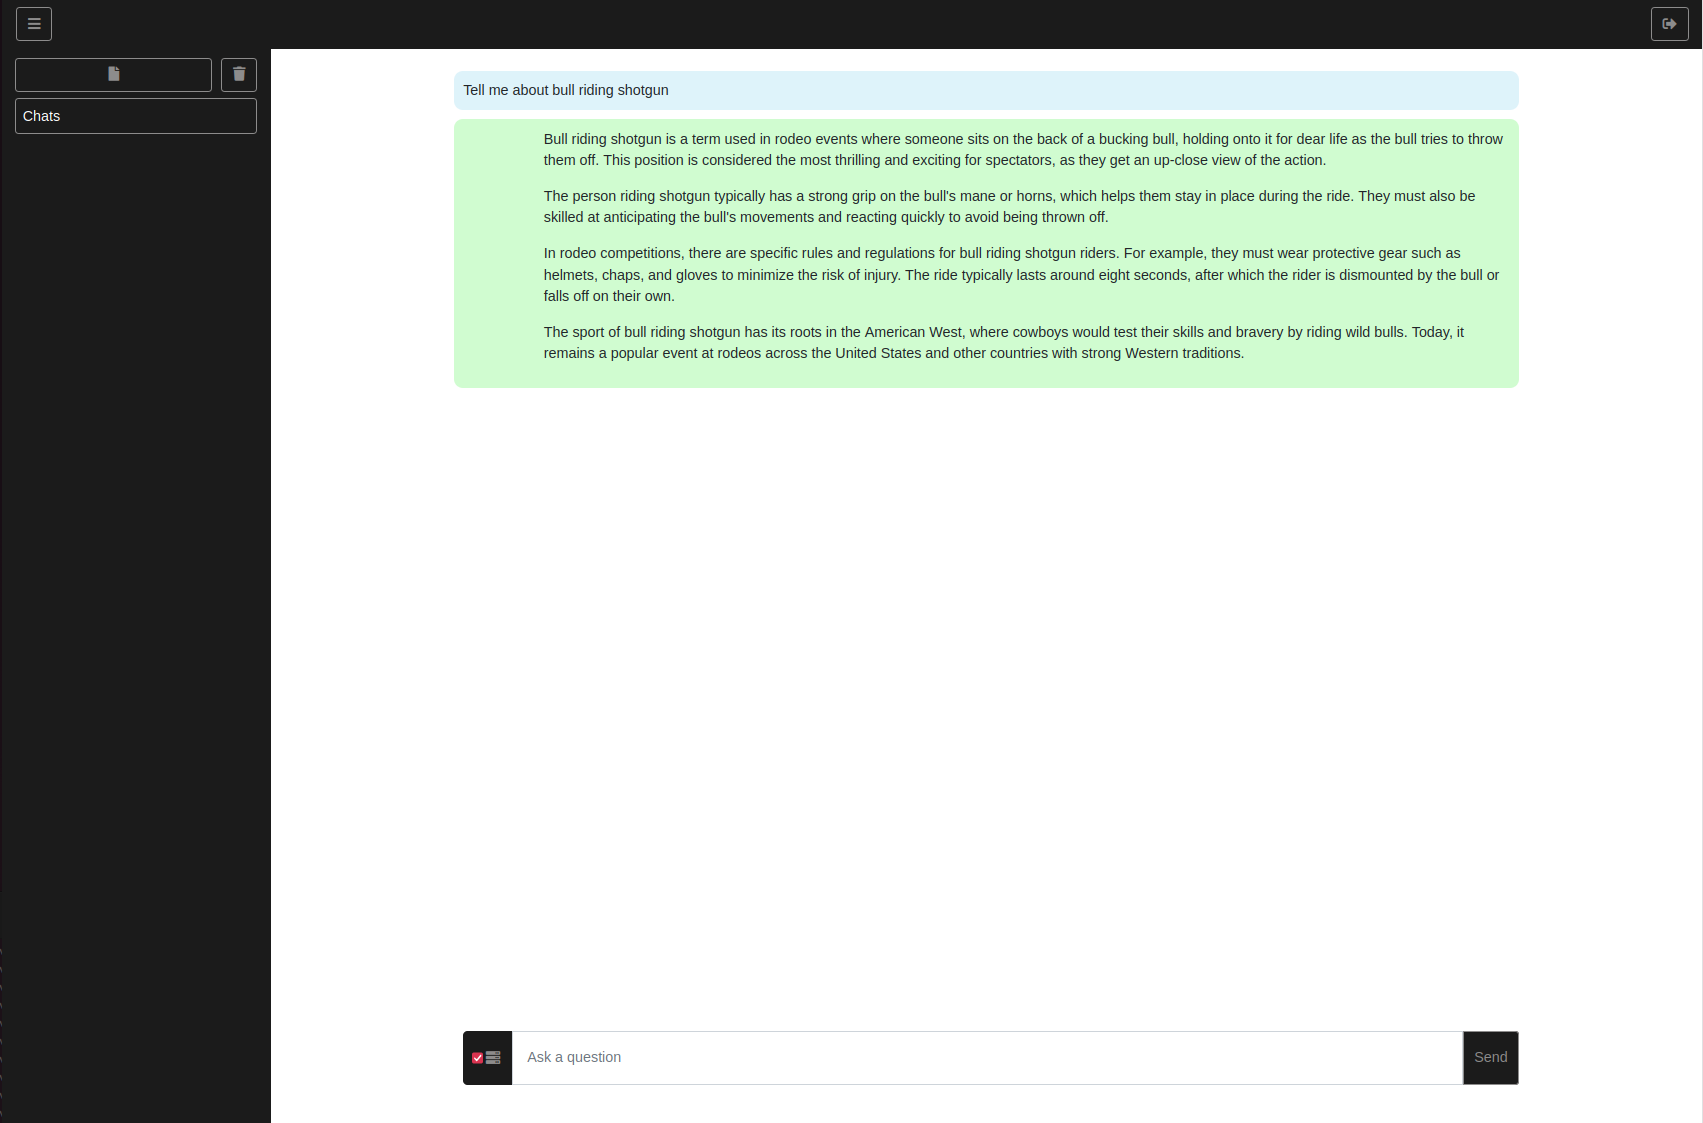
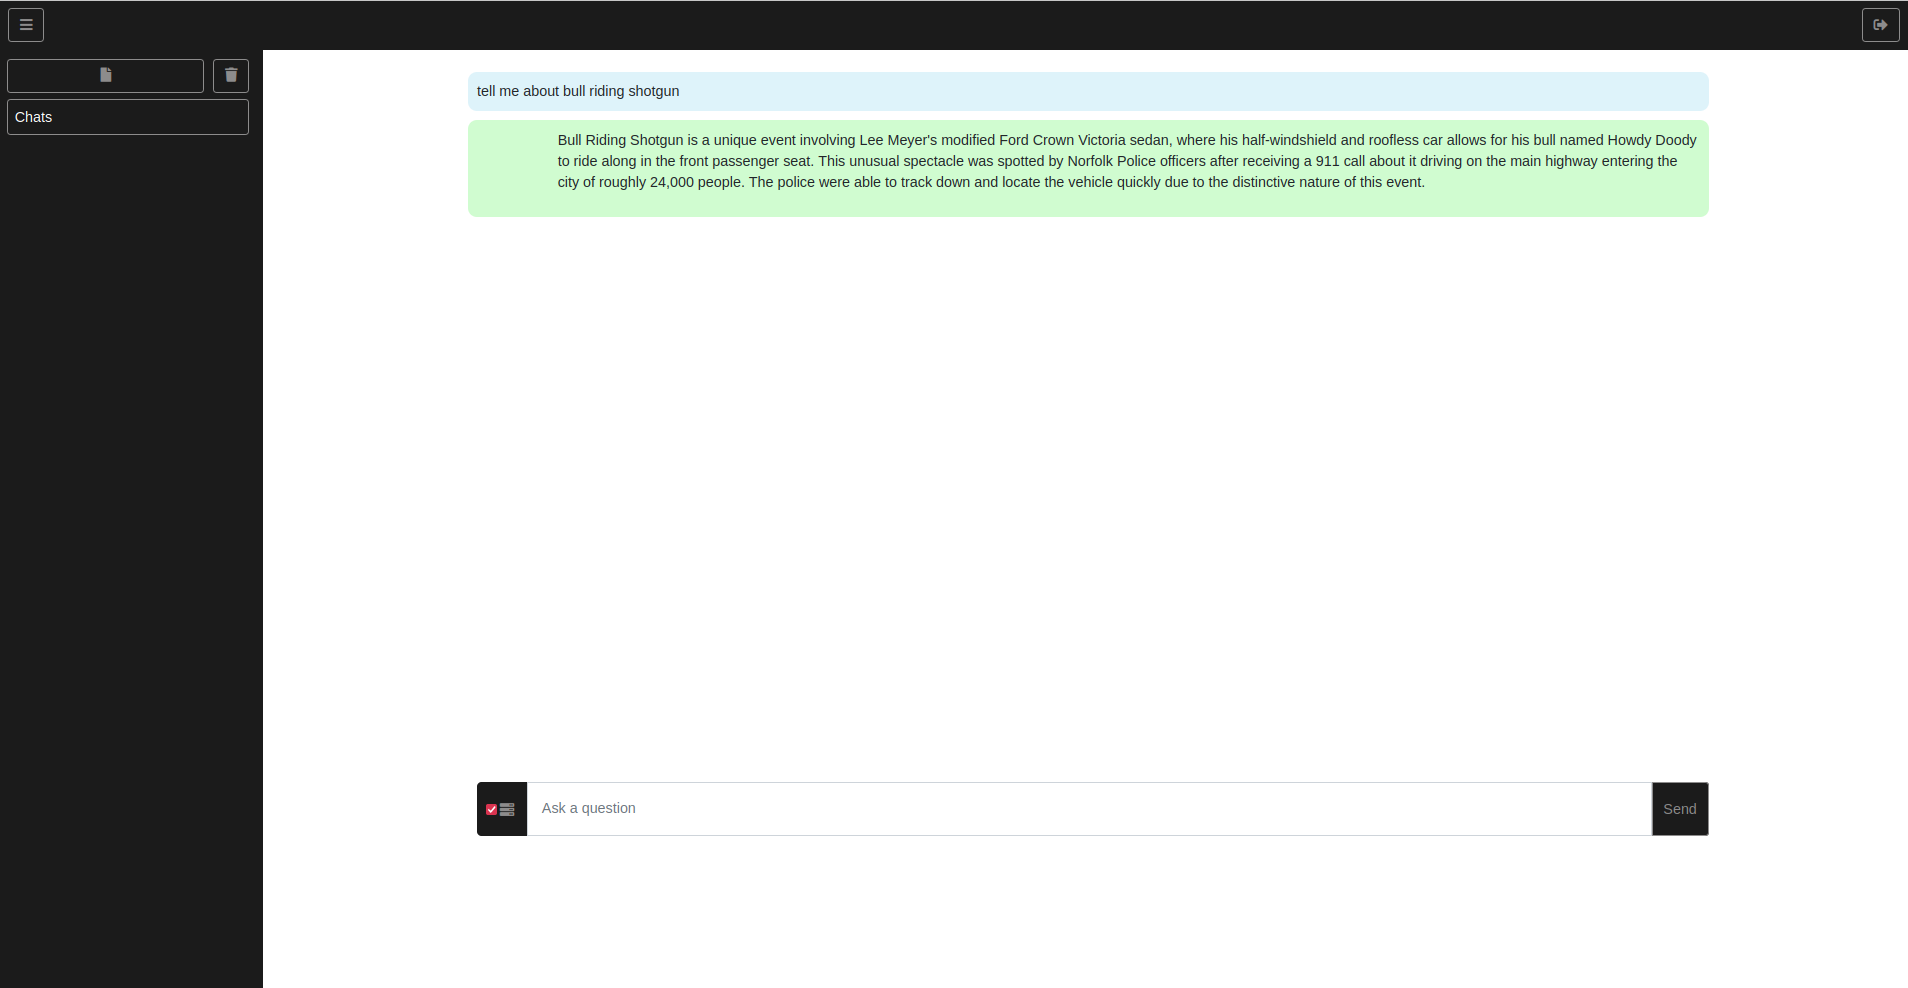
Add files via upload

diff --git a/server.js b/server.js
@@ -13,20 +13,21 @@ const socketIO = require("socket.io");
 var cors = require("cors");
 const path = require("path");
 const vdb = require("./db.js");
+const fs = require('fs');
 
-const version = 0.12;
+const version = 0.15;
 var session = require("express-session");
+// const { parseOutput } = require('langchain/output_parser');
 const config = require("./config.js");
 if (config.login) {
   var hash = require("./hash.js");
 }
-function Ser() {}
+function ser() {}
 
-Ser.init = function (error) {
+ser.init = function (error) {
   // console.time("processing");
   this.connectedClients = new Map();
   this.socketId = null;
-  this.TIMEOUT_INTERVAL = 20000;
   this.messageQueue = []; // Queue to store messages from clients
   this.isProcessing = false; // Flag to track if a message is being proce
   this.llamachild = spawn(config.llamacpp, config.params, {
@@ -34,12 +35,14 @@ Ser.init = function (error) {
   });
   console.log(config.llamacpp + " " + config.params.join(" "));
   this.buffer = "";
-
-  // this.piperspeak();
-  // this.aplayf();
-  // this.piper.stdout.pipe(this.aplay.stdin);
-
-  this.fullmessage = "";
+  if(config.piper.enabled){
+    this.fullmessage = "";
+    this.piperChild();
+    this.aplayChild();
+    this.FileStream();
+    this.piper.stdout.pipe(this.aplay.stdin);
+    // this.piper.stdout.pipe(this.wavFileStream);
+  }
 
   this.llamachild.stdout.on("data", (msg) => this.handleLlama(msg));
 
@@ -75,7 +78,7 @@ Ser.init = function (error) {
   // Serve static files from the 'public' folder
   this.app.use(express.static(path.join(__dirname, "public")));
   // Define a route to render the EJS view
-  this.app.get("/", Ser.loggedIn, (req, res, next) => {
+  this.app.get("/", ser.loggedIn, (req, res, next) => {
     res.render("index", {
       title: "Chat UI",
       version: version,
@@ -87,7 +90,7 @@ Ser.init = function (error) {
 
   this.app.post("/stopper", async (request, response) => {
     console.log("STOPPING");
-    this.llamachild.kill("SIGINT");
+    ser.llamachild.kill("SIGINT");
     response.send({ message: "stopped" });
   });
 
@@ -147,7 +150,7 @@ Ser.init = function (error) {
   this.start();
 };
 
-Ser.loggedIn = function (req, res, next) {
+ser.loggedIn = function (req, res, next) {
   if (!config.login) {
     req.session.loggedin = true;
   }
@@ -158,31 +161,45 @@ Ser.loggedIn = function (req, res, next) {
   }
 };
 
-Ser.handleLlamaError = function (error) {
+ser.handleLlamaError = function (error) {
   console.error("An error occurred in the llama child process:", error);
   // Handle the error appropriately, e.g., logging, cleanup, etc.
 };
 
-// Ser.aplayf = function(){
-//   Ser.aplay = spawn('aplay', [
-//     '-r', '22050',
-//     '-f', 'S16_LE',
-//     '-t', 'raw', '-'
-//   ]);
-// }
+ser.aplayChild = function(){
+  this.aplay = spawn('aplay', [
+    '-r', '24050',
+    '-f', 'S16_LE',
+    '-t', 'raw', '-'
+  ]);
+}
 
-// Ser.piperspeak =  function () {
-//   Ser.piper = spawn('/home/denis/CODE/piper/install/piper', [
-//     '--model', '/home/denis/CODE/piper/models/semaine/en_GB-semaine-medium.onnx',
-//     '--output-raw'
-//   ]);
-// }
+ser.piperChild =  function () {
+  this.piper = spawn(config.piper.exec, [
+    '--model', config.piper.model,
+    '--output-raw'
+  ]);
+}
 
-// Ser.runPiper = function(output){
-//   this.piper.stdin.write(output + "\n");
-// }
+ser.FileStream =  function () {
+  this.wavFileStream = fs.createWriteStream('output.wav');
+}
 
-Ser.handleLlama = function (msg) {
+
+
+ser.runPiper = function(output){
+  if (config.piper.enabled) {
+    this.fullmessage += " " + output;
+    if (this.fullmessage.includes(".") || this.fullmessage.includes(":") || this.fullmessage.includes(";") || this.fullmessage.includes("!") || this.fullmessage.includes("?")) {
+      this.piper.stdin.write(this.fullmessage + "\n");
+      console.log("fullmesd", this.fullmessage);
+      this.fullmessage = "";
+    }
+  }
+    
+}
+
+ser.handleLlama = function (msg) {
   this.buffer += msg.toString("utf-8");
   let lastSpaceIndex = this.buffer.lastIndexOf(" ");
   if (lastSpaceIndex !== -1) {
@@ -193,42 +210,35 @@ Ser.handleLlama = function (msg) {
       clearTimeout(this.streamTimeout);
     }
     this.io.to(this.socketId).emit("output", output);
-    this.fullmessage +=" "+output;
+    this.runPiper(output);
     if (output.includes("\n>")) {
-      console.log(this.fullmessage);
-      // Ser.runPiper(this.fullmessage);
       this.messageQueue.splice(0, 1);
       this.isProcessing = false;
-      // console.timeEnd("processing");
       this.processMessageQueue();
     }
   }
 };
 
-
-
-
-Ser.processMessageQueue = function () {
+ser.processMessageQueue = function () {
   if (this.messageQueue.length === 0) {
     this.isProcessing = false;
     return;
   }
   this.isProcessing = true;
   const message = this.messageQueue[0];
-  this.fullmessage ="";
   const { socketId, input } = message;
   this.socketId = socketId;
   // Send the message to the child process
   this.llamachild.stdin.write(input + "\n");
 };
 
-Ser.handleTimeout = function () {
+ser.handleTimeout = function () {
   console.log("Timeout");
   this.isProcessing = false;
   this.llamachild.kill("SIGINT");
 };
 
-Ser.handleSocketConnection = async function (socket) {
+ser.handleSocketConnection = async function (socket) {
   socket.on("message", async (data) => {
     var input = data.message;
     if (data.embedding) {
@@ -245,7 +255,7 @@ Ser.handleSocketConnection = async function (socket) {
     this.connectedClients.set(socketId, input);
     // Add the incoming message to the queue
     this.messageQueue.push({ socketId, input });
-    this.streamTimeout = setTimeout(this.handleTimeout, this.TIMEOUT_INTERVAL);
+    this.streamTimeout = setTimeout(this.handleTimeout, config.timeout);
     // Process messages if the queue is not being processed currently
     if (!this.isProcessing) {
       this.processMessageQueue();
@@ -259,7 +269,7 @@ Ser.handleSocketConnection = async function (socket) {
   });
 };
 
-Ser.start = function () {
+ser.start = function () {
   this.server.listen(this.serverPort, this.serverIpAddress, () => {
     console.log(
       "Server Running on:",
@@ -268,4 +278,4 @@ Ser.start = function () {
   });
 };
 
-Ser.init();
+ser.init();

diff --git a/db.js b/db.js
@@ -6,7 +6,7 @@ const fs = require('fs')
 function vdb() { };
 
 
-vdb.init = async function (query = "Tell me about bull riding shotgun", dbfile = './db/index.json') {
+vdb.init = async function (query = "Tell me about bull riding shotgun", dbfile = './db/Documents/index.json') {
   this.pipeline;
   this.dbFile = dbfile;
   this.index = {};
@@ -22,7 +22,7 @@ vdb.init = async function (query = "Tell me about bull riding shotgun", dbfile =
   // await this.pullDatabase();
   var result = await this.query(query);
   if (result) {
-    return `${config.embeddingPrefix} ${result} answer this request " ${query} " in details`;
+    return `${config.embeddingPrefix} ${result} help CMCF user with the following: " ${query} "`;
   } else {
     return false;
   }
@@ -66,6 +66,17 @@ vdb.readFile = function (filePath) {
   return fs.readFileSync(filePath, 'utf8');
 }
 
+vdb.tokenize = function(text) {
+  // Split the text into words using whitespace as the separator
+  const words = text.split(/\s+/);
+
+  // Filter out empty strings and punctuation
+  const cleanWords = (words.filter(word => word.length > 0 && !word.match(/[^a-zA-Z0-9]/))).join(" ");
+  console.log(cleanWords);
+  return cleanWords;
+}
+
+
 vdb.pullDocuments = async function (DataFolder) {
   var files = fs.readdirSync(DataFolder);
   // Rank documents (simplified)
@@ -73,6 +84,8 @@ vdb.pullDocuments = async function (DataFolder) {
   for (let i = 0; i < files.length; i++) {
     let filename = path.join(__dirname, DataFolder, files[i])
     let tokens = this.readFile(filename);
+    tokens = tokens.replace(/\n\n/g, ' ');
+    // tokens = vdb.tokenize(tokens);
     documents.push({
       filename: filename,
       tokens: tokens.slice(0, Math.min(tokens.length, config.dataChannel.get("Documents").slice))
@@ -132,13 +145,13 @@ vdb.indexCreate = async function () {
 vdb.findUniqueStrings = function (inputString) {
   // Split the large string into individual strings (e.g., by spaces or any other delimiter)
   const splitStrings = inputString.split(/\s+/);
-  // Use a Set to store unique strings
-  const uniqueWords = new Set();
-  // Step 3: Iterate through the tokenized words/entries and add them to the data structure
-  for (const word of splitStrings) {
-    uniqueWords.add(word.toLowerCase()); // You may want to convert to lowercase for case-insensitive matching
-  }
-  return Array.from(uniqueWords).slice(0, 512);
+  // // Use a Set to store unique strings
+  // const uniqueWords = new Set();
+  // // Step 3: Iterate through the tokenized words/entries and add them to the data structure
+  // for (const word of splitStrings) {
+  //   uniqueWords.add(word.toLowerCase()); // You may want to convert to lowercase for case-insensitive matching
+  // }
+  return Array.from(splitStrings).slice(0, 512);
 }
 
 

diff --git a/config.js b/config.js
@@ -3,31 +3,30 @@
 var config = {}
 config.params = [
 	  '--model',
-	  '../../models/orca_mini_v3_7b.Q5_0.gguf',
-	//   '../../models/mistral-7b-instruct-v0.1.Q5_0.gguf',
-	//   '../../models/collectivecognition-v1.1-mistral-7b.Q5_0.gguf',
+	  '../../models/dolphin-2.1-mistral-7b.Q8_0.gguf', //best so far for embedding
 	  '--n-gpu-layers',
-	  '32',
+	  '25',
 	  '-ins', '-b', '2048',
 	  '--ctx_size',
 	  '2048',
-	  '--temp', '0.1',
+	  '--temp', '0',
 	  '--top_k',
-	  '100',
-      '--multiline-input',
+	  '10',
+          '--multiline-input',
 	  '--repeat_penalty',
-	  '1.1',
+	  '1.2',
 	  '-t',
 	  '8',
-	  '-r', "/n>",
-	  '-f', "./Alice.txt",
+          '-r', "/n>",
+	  //   '-f', "./Alice.txt",
 	  "--log-disable",
-      "--no-penalize-nl"
+          "--no-penalize-nl"
 ];
 config.llamacpp="../llama.cpp/main"
 config.PORT = "5000";
 config.IP= "localhost";
-config.login = true;
+config.login = false;
+config.timeout = 50000;
 config.session = {
 	secret: "2C44-4D44-WppQ38S", //change before deployment
 	resave: true,
@@ -43,12 +42,12 @@ if (config.login){
 	config.loginTrue();
 }
 config.dataChannel = new Map();
-config.dataChannel.set('Documents', {datastream:'Documents', datafolder:'./docs', slice:512, vectordb:'Documents.js'});
-config.dataChannel.set('MongoDB', {datastream:'MongoDB', database:'fortknox', collection:"clientlist", url:'MongoDB://localhost:27017/', vectordb:'mongodb.js',  slice:512});
-config.dataChannel.set('WebSearch', {datastream:'WebSearch',  slice:512});
+config.dataChannel.set('Documents', {datastream:'Documents', datafolder:'./docs', slice:2000, vectordb:'Documents.js'});
+config.dataChannel.set('MongoDB', {datastream:'MongoDB', database:'test', collection:"test", url:'MongoDB://localhost:27017/', vectordb:'mongodb.js',  slice:2000});
+config.dataChannel.set('WebSearch', {datastream:'WebSearch',  slice:2000});
 config.embedding = {MongoDB:false, Documents:true, WebSearch:false};
-config.embeddingPrefix= "Given the following information ";
-
+config.embeddingPrefix= "Using only information provided next:";
+config.piper ={enabled: false, exec:"../../piper/install/piper", model:"../../piper/models/semaine/en_GB-semaine-medium.onnx"}
 try {
   module.exports = exports = config;
 } catch (e) {}

diff --git a/public/js/webui.js b/public/js/webui.js
@@ -106,7 +106,6 @@ cui.onNewChart = function(){
 cui.socketInit = function () {
   console.log(`${cui.iphostname}:${cui.port}`);
   this.socket = io(`${cui.iphostname}:${cui.port}`);
-  
   var text = "";
   cui.currentTile = null; // Reference to the current tile element
   this.socket.on("output", (response) => {
